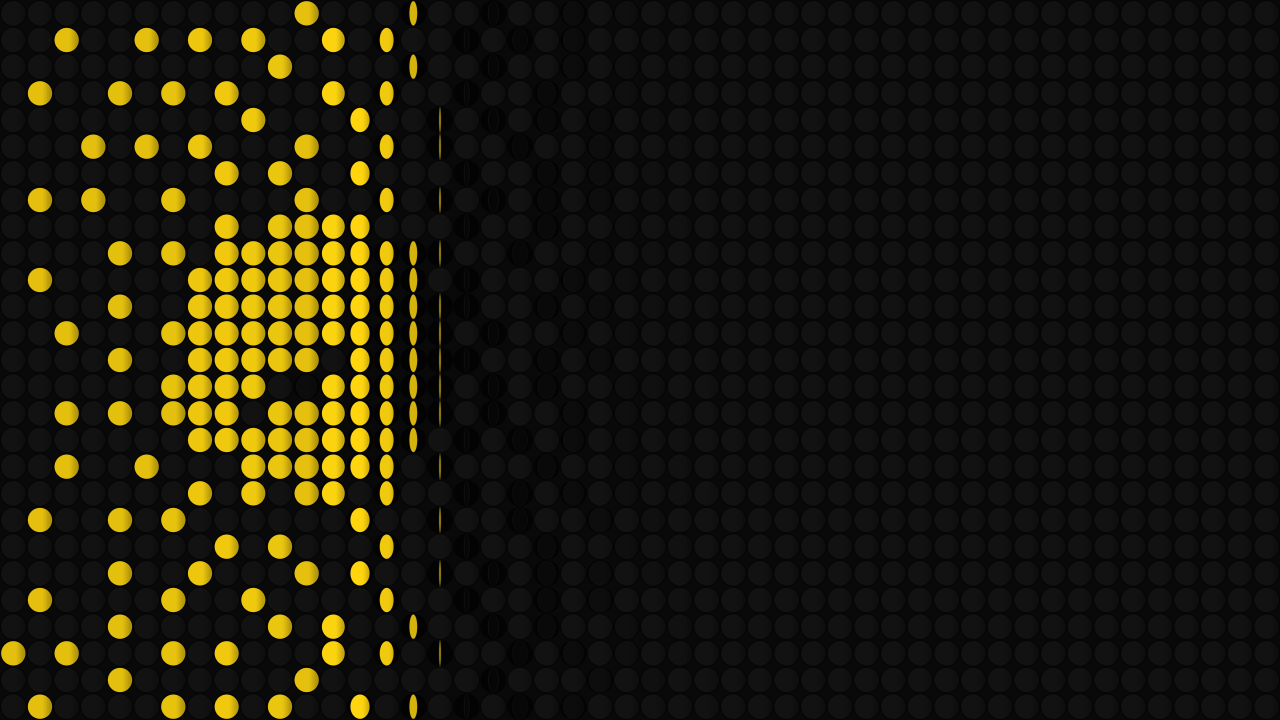
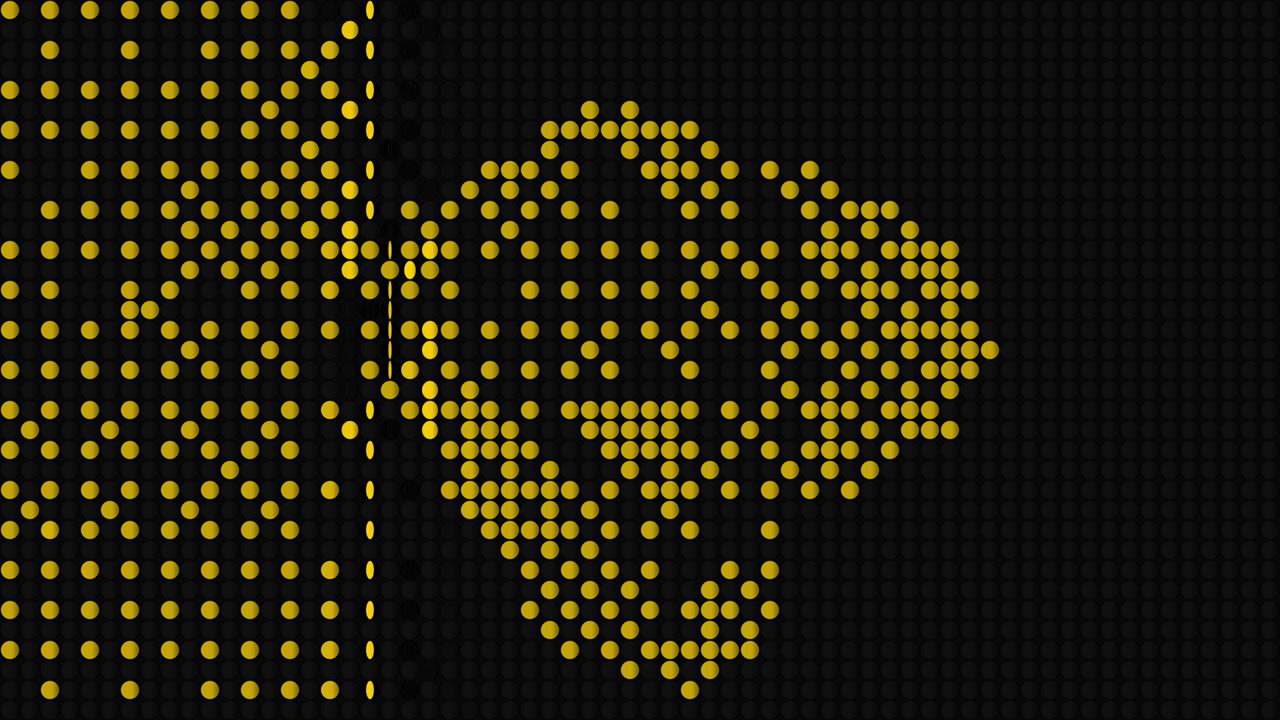
Flipdot v0.1.0: the Windows result in Arena, what filming found, the video, and the release in the docs

Changed region(s): [[0.0, 0.0, 0.7812, 1.0], [0.3125, 0.8556, 0.3438, 0.8861]]

diff --git a/README.md b/README.md
@@ -17,16 +17,29 @@
 > (`--prime`). Ten negative controls, each of which must fail, all do. Every
 > one of the 19 controls is proven to change the picture at both rasters,
 > and the bundle registers, instantiates and lights pixels under the fleet's
-> oxbow host. **It has never been loaded into Resolume.**
+> oxbow host. On Windows it passes the fleet's Arena gate, 9 of 9, in
+> Resolume Arena 7.27.1 on software rendering. **It has never been loaded
+> into Resolume on macOS.**
 
 The picture on an electromagnetic flip-dot sign. An FFGL **effect** for
 Resolume Arena and Avenue.
 
-![A sign of 48 by 27 discs half way through a change: the left of the sign shows the test card's disc in yellow dots, a column of discs caught edge-on marks the wipe, and the right is still black](docs/hero.png)
+![A sign of 64 by 36 yellow discs half way through a change: on the left the discs have turned to a new pattern, a column of discs is caught edge-on as a thin line, and on the right the sign still holds a sphere it kept from the previous clip](docs/hero.png)
 
-<sub>The harness's test card, 0.5 s into a pass at 60 columns a second with a
-0.3 s swing. Rendered by the plugin's offline harness (`fdtest`), not captured
-from Resolume.</sub>
+<sub>A frame of the project video: Update Now pressed on a Manual sign that kept
+the sphere through a clip cut, the new picture wiping across at 30 columns a
+second. Rendered by the plugin's offline harness (`fdtest --pipe`) from one of
+Resolume's bundled demo clips, not captured from Resolume.</sub>
+
+[![Flipdot — the clip on an electromagnetic flip-dot sign, for Resolume](docs/video-thumb.png)](https://www.youtube.com/watch?v=dSpM8189HsQ)
+
+*[Watch it](https://www.youtube.com/watch?v=dSpM8189HsQ) — 73 seconds at 60 fps:
+the sphere at the defaults, a Manual sign keeping its picture through a clip cut and Update Now
+wiping the new one across, a 32 by 18 sign two times up with half-second swings rebounding off
+their stops and then shivering under Refresh All, a row-by-row pass, Onset under a synthetic
+spectrum, the three dithers on a 128 by 72 sign, an old sign with a fifth of its discs stuck,
+and green and white discs. Rendered through `fdtest --pipe` from Resolume's bundled demo clips,
+not captured from Resolume.*
 
 ## The one idea
 
@@ -84,8 +97,8 @@ threshold of 0.25 (the bundled demo clips are dark: their mean luma runs from
 
 ## Status
 
-**v0.1.0, local, 2026-09-25, and honestly early.** Not released, not
-registered, never pushed.
+**v0.1.0, released 2026-09-25, and honestly early.** A user guide is at
+[stoatworks-labs.com/software/flipdot/guide/](https://stoatworks-labs.com/software/flipdot/guide/).
 
 Verified, by measurement on this machine (Apple Silicon, macOS 26.4), with
 `tools/verify.sh` green:
@@ -130,8 +143,8 @@ Verified, by measurement on this machine (Apple Silicon, macOS 26.4), with
 - **Cost**, `fdtest --bench` (60 frames after a 20-frame warm-up, glFinish
   both sides, the largest sign the controls allow, 192×108, Continuous with a
   new picture every frame, the universal build, on a machine running other
-  builds): **1.12–1.21 ms at 1280×720, 1.93–2.19 ms at 1920×1080,
-  3.04–3.58 ms at 3840×2160**, the range of the two `verify.sh` runs of
+  builds): **1.12–1.27 ms at 1280×720, 1.87–2.28 ms at 1920×1080,
+  3.04–3.77 ms at 3840×2160**, the range of the four `verify.sh` runs of
   2026-09-25 (load average 3 to 6). A read-back of the grid of means stalls
   the GPU once a frame.
 - The bundle is universal (`lipo`: x86_64 arm64), exports `plugMain`, ad-hoc
@@ -147,8 +160,17 @@ Not verified, and not pretended:
   driving the real plugin class in a headless GL context.
 - **No real audio has reached it in a host.** The onset detector is
   splitflap's, with its constants from synthetic spectra.
-- **CI is written and has not run.** No Windows build has been made.
-- No presets, no user guide, no OpenFX port, no browser demo.
+- **Windows, in Resolume, on software rendering only.** A build of this
+  source loads, registers and renders in Resolume Arena 7.27.1 on win-lab
+  (Mesa llvmpipe, no GPU): the fleet's Arena gate, 9 of 9, every parameter
+  as declared, 12 controls (with Arena's Opacity) shown moving the picture.
+  The seven that act only while discs move (Scan, Scan Rate, Update,
+  Interval, Flip Time, Rebound, Late) cannot act on the gate's still carrier,
+  where the sign settles once, and Audio was not tested (no sound device).
+- **What the read-back costs inside Resolume** is unmeasured: the means are
+  read back to the CPU with a synchronous `glReadPixels`, a stall once a
+  frame in Continuous.
+- No presets, no OpenFX port.
 
 ## Installing
 

diff --git a/AGENTS.md b/AGENTS.md
@@ -260,6 +260,22 @@ session started in a `~/Projects` checkout; `git add` from there, even aimed
 at `~/dev/flipdot`, was refused by the hook. `git -C ~/dev/flipdot ...` is
 what works (and is the machine's rule anyway).
 
+**What filming found (2026-09-25, the release video).** (1) Switching
+Update from Continuous to Manual lets the pass in flight finish, at the scan
+rate in force: the video's first cut changed Scan Rate to 30 lines a second
+at the switch, so the old pass was still crawling across the right of the
+sign when Update Now landed 1.5 s later, and those columns took the new
+picture before the new pass reached them. That is the documented "an update
+during a pass latches at once" rule, not a defect; the guide now says it, and
+the cue sheet changes the rate after the old pass has ended. (2) Lit from 80°
+the flat faces fall to ambient plus 0.17 and the sign reads brown; the video
+lights its swing beats from 48° and 60°. (3) Onset needs a picture that
+changes between passes (Beat 001 barely does); the video's Onset beat is
+OrganicMotions_06 under a synthetic spectrum (`fdtest`'s `Spectrum` cue), and
+says so. (4) Refresh All's shiver is measurable on film: in the 2x crop, 3x
+the frame-to-frame change of Only Changes on the same clip (1.1 % against
+0.4 % of pixels a frame).
+
 **zsh's `=word` expansion**, again: `echo =====` as a separator in a one-off
 command failed with "===== not found". verify.sh is bash.
 
@@ -394,14 +410,20 @@ ones as a sparse sign with the stuck dots showing, and nothing floods.
 
 **Assumed, or not done:**
 
-- **Never loaded into Resolume**, on either platform. No Windows build.
+- **Never loaded into Resolume on macOS.** On Windows it has been: the
+  fleet's Arena gate (plugin-bench `arena/expect/flipdot.json`) passed 9 of
+  9 on Resolume Arena 7.27.1, software rendering, 2026-09-25: 26 controls
+  match, 12 live, the seven that act only while discs move (Scan, Scan Rate,
+  Update, Interval, Flip Time, Rebound, Late) annotated `inert` because the
+  gate's still carrier settles the sign once and a settled sign is the same
+  picture at any timing, Audio skipped (no sound device).
 - **No real audio.** The detector's constants are splitflap's, from
   synthetic spectra; the bins' law is unmeasured and nothing assumes one.
 - **Whether Resolume hands over straight or premultiplied alpha.** luma ×
   alpha is right for straight; for premultiplied it darkens a soft edge twice.
-- CI is written (adapted from splitflap) and has never run.
-- No presets, no user guide (`guide = ""` in the provisional About header), no
-  OpenFX port, no browser demo.
+- **The read-back's stall inside Resolume** is unmeasured (a synchronous
+  `glReadPixels` once a frame in Continuous).
+- No presets, no OpenFX port.
 
 ## Open questions
 

diff --git a/CLAUDE.md b/CLAUDE.md
@@ -91,9 +91,9 @@ parameter list.
   `static_assert` holds `PT_ABOUT_*` to `about::kParamCount`.
 
 ## Not done yet
-- Never loaded into Resolume; no real audio has reached it in a host. CI is
-  written and has not run.
-- No presets, no OpenFX port, no browser demo, no user guide.
+- Never loaded into Resolume on macOS; on Windows the Arena gate passed 9 of 9
+  (software rendering). No real audio has reached it in a host.
+- No presets, no OpenFX port.
 
 ## Diagnostics
 
